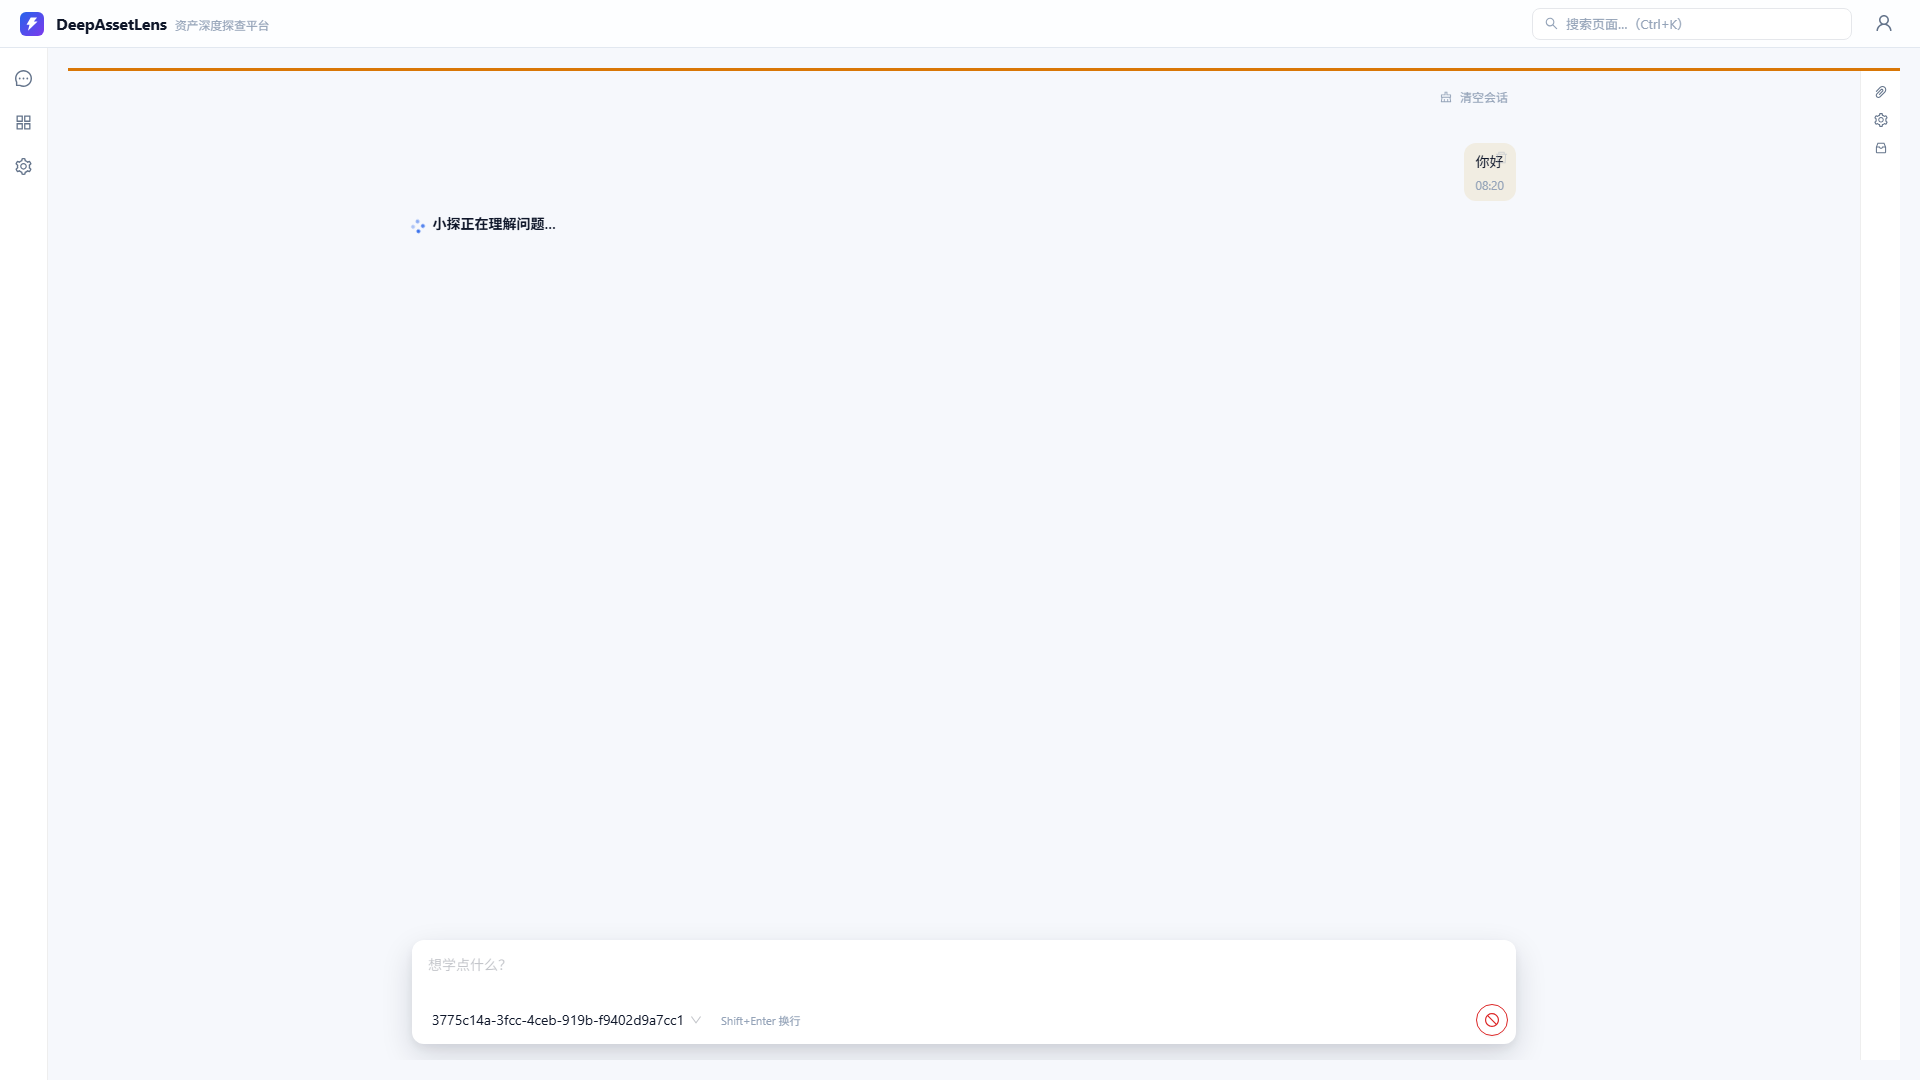
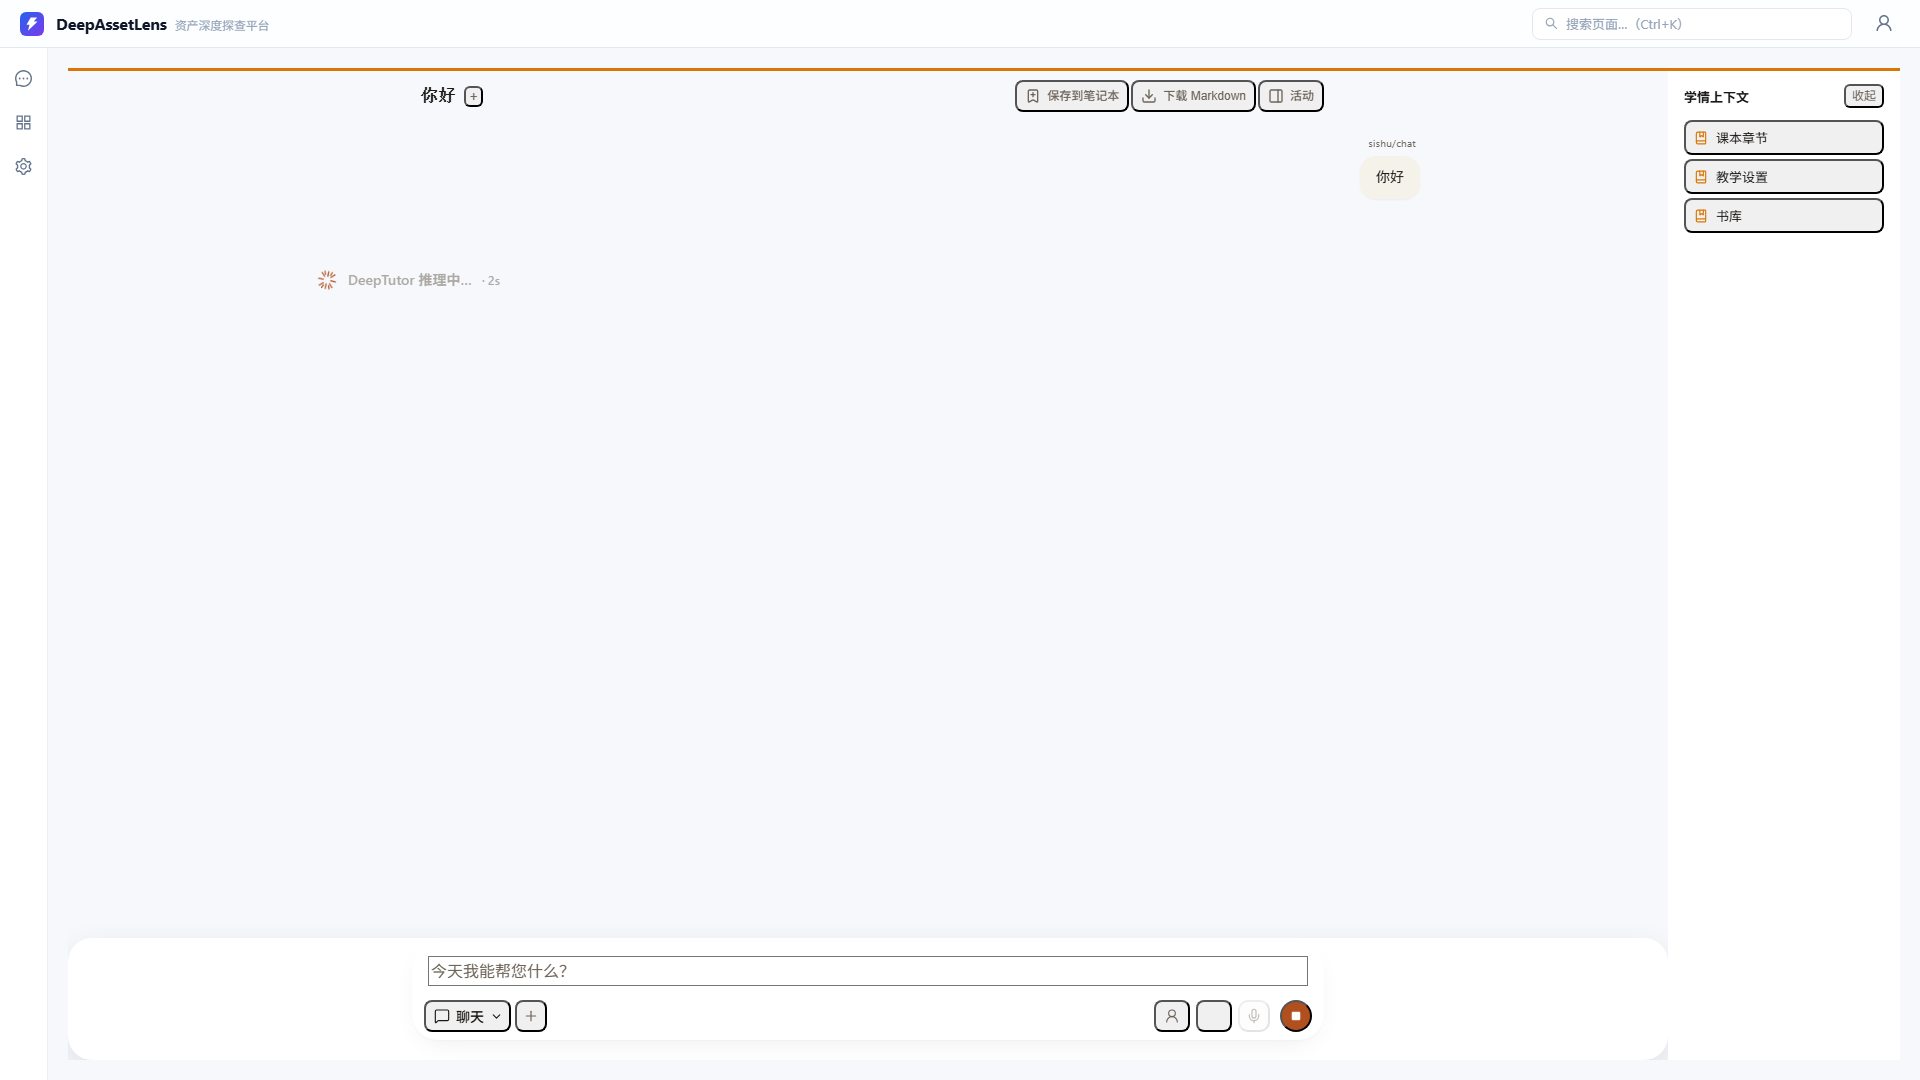
UX3修复：①私塾功能全还原——/e/sishu/chat 回挂 TutorHomeChat（8能力选择器/引用族/学情上下文/桥SSE/保存导出），风格收敛改在组件内做（问数渐变大题+副标语+today-panel 胶囊+两列建议卡，去衬线欢迎题）②新建会话永远回首页——ChatPanel 新建按钮与 TutorHomeChat +按钮均 navigate('/')，TutorHomeChat 补 ?new=1 契约（桥 reset 清会话，防 KeepAlive 复活旧对话）③探针改桥端点断言（skills/capability + skill_code）。对拍 15/15 + P0 8/

diff --git a/frontend/src/pages/tutor/chat/TutorHomeChat.tsx b/frontend/src/pages/tutor/chat/TutorHomeChat.tsx
@@ -6,10 +6,10 @@
 "use client";
 
 import { lazy, Suspense, useCallback, useEffect, useMemo, useRef, useState, type ReactNode } from "react";
-import { useNavigate } from "react-router-dom";
+import { useLocation, useNavigate } from "react-router-dom";
 import {
   BarChart3, BookMarked, BrainCircuit, Clapperboard, ClipboardCheck, Code2, Compass, Database,
-  FileSearch, Globe, GraduationCap, Image as ImageIcon, Lightbulb, MessageSquare,
+  FileSearch, Flame, Globe, GraduationCap, Image as ImageIcon, Lightbulb, MessageSquare,
   Microscope, PenLine, Sparkles, BookmarkPlus, Download, PanelRight,
   type LucideIcon,
 } from "lucide-react";
@@ -90,6 +90,10 @@ import type { SelectedHistorySession } from "../../../components/chat/HistorySes
 import type { SelectedQuestionEntry } from "../../../components/chat/QuestionBankPicker";
 import { listSkills } from "../../../lib/skills-api";
 import { useStore } from "../../../store/useStore";
+// UX3修复：欢迎区风格收敛数据源（色素/像素对齐问数）——设计 token + sishu 卡
+import { tokens, spaceColors } from "../../../theme/tokens";
+import { expertsApi } from "../../../services/api";
+import type { ExpertCard } from "../../../services/api";
 import { AgentChatProvider, useAgentChat, type AgentMessageItem } from "./AgentChatContext";
 
 // next/dynamic → React.lazy（CRA 无 SSR；批2.3 垫片同款）
@@ -407,6 +411,39 @@ function TutorHomeChatInner() {
     }
     setWelcomeGreeting(bucket[Math.floor(Math.random() * bucket.length)]);
   }, []);
+
+  /* ---- UX3修复（用户裁定）：?new=1 新建契约——门户卡进入/KeepAlive 复活均强制全新会话：
+     桥 reset 清 sessionId/messages（中止在途流）→ 落欢迎页，随后剥参保持 URL 干净。
+     修复曾现的「点私塾卡仍显示上轮对话」——组件被 KeepAlive 保活时不会自行重置。 ---- */
+  const location = useLocation();
+  useEffect(() => {
+    const sp = new URLSearchParams(location.search);
+    if (sp.get("new") !== "1") return;
+    reset();
+    sp.delete("new");
+    navigate({ pathname: location.pathname, search: sp.toString() ? `?${sp.toString()}` : "" }, { replace: true });
+    // eslint-disable-next-line react-hooks/exhaustive-deps
+  }, [location.search]);
+
+  /* ---- UX3修复：欢迎区风格收敛数据源（只供视觉，失败静默降级，不碰桥功能面）——
+     sishu 卡（suggestions/tagline）+ today-panel 胶囊动态数（同 ExpertChat 批16deep 17.1 平台面）。 ---- */
+  const [sishuCard, setSishuCard] = useState<ExpertCard | null>(null);
+  const [tutorProfile, setTutorProfile] = useState<{ due_count: number; streak_days: number } | null>(null);
+  useEffect(() => {
+    let alive = true;
+    expertsApi.get("sishu").then((res) => {
+      if (alive) setSishuCard(res.data as ExpertCard);
+    }).catch(() => undefined);
+    fetch("/api/v1/learning/today-panel").then((r) => r.json()).then((j) => {
+      if (alive && j && (j.due_count !== undefined || j.streak_days !== undefined)) {
+        setTutorProfile({ due_count: j.due_count ?? 0, streak_days: j.streak_days ?? 0 });
+      }
+    }).catch(() => undefined);
+    return () => { alive = false; };
+  }, []);
+  const sishuSuggestions = (sishuCard?.suggestions && sishuCard.suggestions.length > 0
+    ? sishuCard.suggestions
+    : sishuCard?.ui_config?.suggestions) ?? ["帮我出三道二次函数练习题", "拍一张错题照片录入错题本", "生成本周的复习计划"];
 
   const firstUserTitle = useMemo(
     () => state.messages.find((msg) => msg.role === "user")?.content.trim().replace(/\s+/g, " ").slice(0, 80) || "",
@@ -866,7 +903,8 @@ function TutorHomeChatInner() {
 
   const cancelStreamingTurn = useCallback(() => stop(), [stop]);
   const handleMessagesClick = useCallback(() => { /* DT：点击消息区收浮层（菜单关闭由组件内部处理） */ }, []);
-  const navigateToHome = useCallback(() => navigate("/e/sishu", { replace: true }), [navigate]);
+  // UX3修复（用户裁定）：新建会话永远回首页门户——由用户在首页三卡按需选空间
+  const navigateToHome = useCallback(() => navigate("/", { replace: true }), [navigate]);
 
   /* ---- 新会话 ---- */
   const newSession = useCallback(() => { reset(); navigateToHome(); }, [reset, navigateToHome]);
@@ -913,9 +951,58 @@ function TutorHomeChatInner() {
           {/* 消息区（DT L1982-2075 1:1） */}
           <div className="flex w-full flex-1 min-h-0 flex-col">
             {!hasMessages ? (
-              <div className="animate-fade-in flex w-full flex-1 flex-col items-center justify-center px-6 pb-8 gap-8" style={{ minHeight: "fit-content" }}>
-                <div className="flex w-full max-w-[960px] items-center justify-center gap-4">
-                  <h1 className="font-serif text-[40px] font-medium leading-[1.1] tracking-[-0.015em] text-[var(--foreground)]">{t(welcomeGreeting)}</h1>
+              <div className="animate-fade-in flex w-full flex-1 flex-col items-center justify-center px-6 pb-8" style={{ minHeight: "fit-content" }}>
+                {/* UX3修复：欢迎区对齐问数视觉语言（色素/像素）——渐变大标题+副标语+today-panel 动态数。
+                    问候语文案是功能保留（DT L660-696 时段桶），仅呈现样式从衬线收敛为问数渐变题 */}
+                <div style={{ textAlign: "center", marginBottom: 20 }}>
+                  <div
+                    style={{
+                      fontSize: tokens.fontSize.display,
+                      fontWeight: 700,
+                      letterSpacing: "-0.02em",
+                      background: tokens.brandGradient,
+                      WebkitBackgroundClip: "text",
+                      backgroundClip: "text",
+                      WebkitTextFillColor: "transparent",
+                      color: "transparent",
+                      lineHeight: 1.3,
+                    }}
+                  >
+                    {t(welcomeGreeting)}
+                  </div>
+                  <div style={{ marginTop: 8, fontSize: 14, color: "var(--text-tertiary, #999)" }}>
+                    {sishuCard?.ui_config?.welcome?.tagline ?? "出题 · 判分 · 错题本 · 学情规划"}
+                  </div>
+                  {tutorProfile && (tutorProfile.due_count > 0 || tutorProfile.streak_days > 0) && (
+                    <div style={{ marginTop: 6, fontSize: 13, color: tokens.colors.info }}>
+                      今日有 {tutorProfile.due_count} 题待复习，已连续学习 {tutorProfile.streak_days} 天
+                    </div>
+                  )}
+                </div>
+                {/* 统计胶囊（同问数 S1 卡规格——图标+tabular-nums 数字+12px 说明） */}
+                <div style={{ display: "flex", gap: 12, flexWrap: "wrap", justifyContent: "center" }}>
+                  {[
+                    { label: "待复习", value: tutorProfile ? `${tutorProfile.due_count} 题` : "—", icon: <BookMarked className="h-4 w-4" />, color: spaceColors.sishu },
+                    { label: "连续学习", value: tutorProfile ? `${tutorProfile.streak_days} 天` : "—", icon: <Flame className="h-4 w-4" />, color: tokens.colors.ai },
+                  ].map((c) => (
+                    <div
+                      key={c.label}
+                      data-testid={`sishu-capsule-${c.label}`}
+                      style={{
+                        display: "flex", alignItems: "center", gap: 10,
+                        padding: "10px 18px", borderRadius: tokens.radius.card,
+                        background: "var(--bg-content, #fff)",
+                        border: `1px solid ${tokens.colors.border}`,
+                        boxShadow: tokens.elevation.s1,
+                      }}
+                    >
+                      <span style={{ color: c.color, fontSize: 16, display: "inline-flex" }}>{c.icon}</span>
+                      <div>
+                        <div style={{ fontSize: 18, fontWeight: 700, color: "var(--text-primary, #222)", lineHeight: 1.2, fontVariantNumeric: "tabular-nums" }}>{c.value}</div>
+                        <div style={{ fontSize: 12, color: "var(--text-tertiary, #999)" }}>{c.label}</div>
+                      </div>
+                    </div>
+                  ))}
                 </div>
                 {/* UX2批⑧：7 功能入口已下沉管理台（v4§5.2 私塾管理组）——首屏宫格移除（用户反馈⑧） */}
               </div>
@@ -1069,6 +1156,33 @@ function TutorHomeChatInner() {
               prefillInputRef={prefillInputRef}
             />
             </div>
+            {/* UX3修复：建议卡（问数同款两列卡规格）——仅欢迎视图渲染；点击经 prefill 预填不直发，
+                送信链路仍是桥 send（功能不换）。宽度对齐 ChatComposer 欢迎态 max-w-[768px]。 */}
+            {!hasMessages && (
+              <div style={{ display: "grid", gridTemplateColumns: "repeat(2, minmax(0, 1fr))", gap: 10, width: "100%", maxWidth: 768, margin: "0 auto", padding: "0 24px 16px" }}>
+                {sishuSuggestions.map((item, i) => (
+                  <div
+                    key={`suggest-${i}`}
+                    role="button"
+                    tabIndex={0}
+                    data-testid={`sishu-suggest-${i}`}
+                    onClick={() => prefillInputRef.current?.(item)}
+                    onKeyDown={(e) => { if (e.key === "Enter" || e.key === " ") { e.preventDefault(); prefillInputRef.current?.(item); } }}
+                    style={{
+                      display: "flex", alignItems: "center", gap: 10,
+                      padding: "12px 14px", borderRadius: tokens.radius.card,
+                      background: "var(--bg-content, #fff)",
+                      border: `1px solid ${tokens.colors.border}`,
+                      boxShadow: tokens.elevation.s1,
+                      cursor: "pointer",
+                    }}
+                  >
+                    <Sparkles className="h-4 w-4 shrink-0" style={{ color: spaceColors.sishu }} />
+                    <span style={{ fontSize: 13, color: "var(--text-primary, #222)", lineHeight: 1.6 }}>{item}</span>
+                  </div>
+                ))}
+              </div>
+            )}
             <div
               aria-hidden="true"
               className="shrink-0"

diff --git a/frontend/src/config/expertPages.ts b/frontend/src/config/expertPages.ts
@@ -71,11 +71,11 @@ const PartnersNew = lazy(() => import(/* webpackChunkName: "dt-partners-new" */ 
 const PartnerDetail = lazy(() => import(/* webpackChunkName: "dt-partners-detail" */ '../pages/tutor/partners/PartnerDetail'));
 const SelfLearning = lazy(() => import(/* webpackChunkName: "dt-self-learning" */ '../pages/tutor/learning/SelfLearning'));
 
-// 引擎批2 2.5/2.6 → UX3修：DT 桌面对话窗口原挂 TutorHomeChat（home 页复刻壳+桥 SSE 态源）。
-// UX3修：私塾对话收敛问数风格——/e/sishu/chat 改挂 ExpertChat（slug-aware：琥珀色条+
-// today-panel 统计胶囊+sishu 宫格），与 /e/wenshu/chat 同组件同骨架；静态路径仍压过
-// routes.tsx 的 /e/:slug/chat 参数路由（v6 静态优先）。TutorHomeChat 全库无引用，移除挂载。
-const ExpertChat = lazy(() => import(/* webpackChunkName: "expert-chat" */ '../pages/expert/ExpertChat'));
+// 引擎批2 2.5/2.6：DT 桌面对话窗口——TutorHomeChat（home 页复刻壳+桥 SSE 态源）。
+// UX3修复（用户裁定）：功能面全保留=TutorHomeChat（8 能力选择器/错题录入/引用族/学情上下文）；
+// 风格收敛（色素/像素/文本框对齐问数）在 TutorHomeChat 组件内落地——不换挂 ExpertChat
+// （b17cdc3 曾换挂致功能丢失，已回退）。静态路径仍压过 routes.tsx 参数路由（v6 静态优先）。
+const TutorHomeChat = lazy(() => import(/* webpackChunkName: "tutor-home-chat" */ '../pages/tutor/chat/TutorHomeChat'));
 
 const TUTOR_H5_PAGES: ExpertPageConfig[] = [
   // IA 件批1：16 条路由从 /e/sishu/{h5,notebook} 迁出 → /e/tutor-h5/*（menuKey 同步换前缀）；
@@ -148,7 +148,7 @@ export const EXPERT_PAGES: Record<string, ExpertPageConfig[]> = {
     // IA批6 6.3：桌面自主学习（use——与 h5 版 /e/tutor-h5/learn 并存，DT 本就两页各自 1:1）
     { path: '/e/sishu/self-learning', element: withUseGuard(SelfLearning), label: '自主学习', menuKey: 'e:sishu:self-learning' },
     // 引擎批2 2.6：DT 桌面对话窗口（navigation.tsx e:sishu:chat 既有占位→真路由）
-    { path: '/e/sishu/chat', element: withUseGuard(ExpertChat, 'sishu'), label: '对话', menuKey: 'e:sishu:chat' }, // UX3修：风格收敛=问数同组件
+    { path: '/e/sishu/chat', element: withUseGuard(TutorHomeChat, 'sishu'), label: '对话', menuKey: 'e:sishu:chat' }, // UX3修复：功能还原，风格在组件内收敛
     // 引擎批5 5.5：书籍工作台（DT book/page.tsx 1:1 壳件）
     { path: '/e/sishu/book', element: withUseGuard(BookWorkbench, 'sishu'), label: '书籍', menuKey: 'e:sishu:book' },
   ],

diff --git a/frontend/src/components/shell/ChatPanel.tsx b/frontend/src/components/shell/ChatPanel.tsx
@@ -307,11 +307,11 @@ export function ChatPanel({ onClose }: { onClose: () => void }) {
         block
         icon={<PlusOutlined />}
         data-testid="chat-panel-new"
-        // UX3批1（P0-C）：新建留守当前空间（?new=1 契约=UX2批③），不再跳门户/关面板
+        // UX3修复（用户裁定）：新建会话永远回首页门户——由用户在首页三卡按需选空间；
+        // ?new=1 契约在 ExpertChat（清活跃位）与 TutorHomeChat（桥 reset）各自落地。
         onClick={() => {
           setActiveSessionId('');
-          const slug = location.pathname.startsWith('/e/') ? (location.pathname.split('/')[2] || 'wenshu') : 'wenshu';
-          navigate(slug === 'tutor-h5' ? '/e/tutor-h5/chat' : `/e/${slug}/chat?new=1`);
+          navigate('/');
         }}
       >
         新建对话

diff --git a/backend/scripts/_pw_ux3_fix.py b/backend/scripts/_pw_ux3_fix.py
@@ -6,13 +6,15 @@ B1a 首页门户卡在场（刷新后种子历史会话在 localStorage）
 B1b 点问数卡 → /e/wenshu/chat（?new=1 已清）
 B1c 历史消息未渲染（不再进历史对话）
 B1d 问数色条=蓝 + 欢迎页主视觉在场
-B3a 私塾色条=琥珀 #D97706（ExpertChat slug-aware）
-B3b 私塾功能宫格在场（sishu-space-grid）
-B3c today-panel 统计胶囊（待复习）
-B3d 旧 TutorHomeChat 欢迎语「下午好」退场
-S1  sishu 发送走 freeplan stream
-S2  请求带 expert_id=sishu
-S3  回复落定（loading 退场）
+B3a 私塾色条=琥珀 #D97706（TutorHomeChat 页头色条）
+B3b 功能还原·学情上下文右栏（sishu-trust-panel）
+B3c 统计胶囊·待复习（today-panel）
+B3e 统计胶囊·连续学习
+B3f 建议卡（问数同款两列卡）
+B3g 衬线旧欢迎题退场（风格收敛）
+S1  sishu 发送走桥 POST /api/v2/skills/capability
+S2  请求带 skill_code=sishu/*
+S3  回复落定（停止生成退场）
 零 pageerror
 """
 import json
@@ -73,7 +75,7 @@ with sync_playwright() as p:
         check("B1d 欢迎页主视觉在场", welcome.count() >= 1, f"hits={welcome.count()}")
         pg.screenshot(path=str(SCR / "_ux3fix_wenshu.png"))
 
-    # ---------- BUG3: 私塾风格收敛 ----------
+    # ---------- BUG3: 私塾功能还原 + 风格收敛（TutorHomeChat 组件内做风格） ----------
     pg.goto(BASE + "/e/sishu/chat?new=1", timeout=60000, wait_until="domcontentloaded")
     pg.wait_for_timeout(7000)
     bar2 = pg.locator("[data-testid='space-color-bar']")
@@ -82,18 +84,19 @@ with sync_playwright() as p:
         check("B3a 私塾色条=琥珀#D97706", "217, 119, 6" in bg2, bg2)
     else:
         check("B3a 私塾色条=琥珀#D97706", False, "bar not found")
-    grid = pg.locator("[data-testid='sishu-space-grid']")
-    check("B3b 私塾功能宫格在场", grid.count() >= 1)
-    due = pg.locator("text=待复习")
-    check("B3c today-panel 统计胶囊", due.count() >= 1, f"hits={due.count()}")
-    old_title = pg.locator("text=下午好")
-    check("B3d 旧 TutorHomeChat 欢迎语退场", old_title.count() == 0, f"hits={old_title.count()}")
+    trust = pg.locator("[data-testid='sishu-trust-panel']")
+    check("B3b 功能还原·学情上下文右栏", trust.count() >= 1)
+    check("B3c 统计胶囊·待复习", pg.locator("text=待复习").count() >= 1)
+    check("B3e 统计胶囊·连续学习", pg.locator("[data-testid='sishu-capsule-连续学习']").count() >= 1)
+    check("B3f 建议卡（问数同款）", pg.locator("[data-testid='sishu-suggest-0']").count() >= 1)
+    serif = pg.locator("h1.font-serif")
+    check("B3g 衬线旧欢迎题退场", serif.count() == 0, f"hits={serif.count()}")
 
-    # ---------- sishu 发送链路（freeplan stream + expert_id=sishu）----------
+    # ---------- sishu 发送链路（桥 POST /api/v2/skills/capability，skill_code=sishu/*）----------
     req_info = {}
 
     def on_req(req):
-        if "chat/freeplan/stream" in req.url:
+        if "skills/capability" in req.url:
             req_info["url"] = req.url
             try:
                 req_info["body"] = req.post_data or ""
@@ -113,15 +116,15 @@ with sync_playwright() as p:
                 ok_req = True
                 break
         ok_resp = False
-        for _ in range(120):
+        for _ in range(150):
             pg.wait_for_timeout(1000)
-            if pg.evaluate("() => !document.body.innerText.includes('正在思考...')"):
+            if pg.evaluate("() => !document.body.innerText.includes('停止生成')"):
                 ok_resp = True
                 break
-        check("S1 sishu 发送走 freeplan stream", ok_req, str(req_info.get("url", ""))[:80])
+        check("S1 sishu 发送走桥 capability 流", ok_req, str(req_info.get("url", ""))[:80])
         body = req_info.get("body", "")
-        check("S2 请求带 expert_id=sishu", "sishu" in body, body[:140].replace("\n", " "))
-        check("S3 回复落定（loading 退场）", ok_resp)
+        check("S2 请求带 skill_code=sishu/*", '"skill_code"' in body and "sishu" in body, body[:140].replace("\n", " "))
+        check("S3 回复落定（停止生成退场）", ok_resp)
         pg.screenshot(path=str(SCR / "_ux3fix_sishu.png"))
     else:
         check("S1 sishu 发送链路", False, "textarea not found")

diff --git a/backend/scripts/_pw_ux3_p0.py b/backend/scripts/_pw_ux3_p0.py
@@ -81,13 +81,11 @@ with sync_playwright() as p:
     pg.wait_for_timeout(400)
     pg.locator("[data-testid='chat-panel-new']").click()
     pg.wait_for_timeout(1500)
-    # UX3修：?new=1 契约自 UX2批(6f1aaff) 起为「消费即剥」——意图效果 replace-navigate 清参；
-    # 留守语义由后两条承载（仍在本空间色条+面板未关）。断言从"参数留存"改"参数已消费"。
-    check("P0-C URL=?new=1 已消费（留守私塾）", "/e/sishu/chat" in pg.url and "new=1" not in pg.url, pg.url[:80])
-    check("P0-C space-color-bar 仍可见", pg.locator("[data-testid='space-color-bar']").count() >= 1)
-    check("P0-C 面板未关闭", pg.locator("[data-testid='chat-panel']").is_visible())
-    # UX3修：新建后落欢迎页（活跃位已清——与 BUG1 同契约）；sishu 宫格仅在欢迎视图渲染
-    check("P0-C 新建落欢迎页", pg.locator("[data-testid='sishu-space-grid']").count() >= 1)
+    # UX3修复（用户裁定）：新建会话永远回首页门户——ChatPanel 新建按钮 navigate('/')。
+    # ?new=1 消费即剥契约（UX2批6f1aaff）不变，但落点改首页由用户选空间。
+    pg.wait_for_timeout(1500)
+    check("P0-C URL=新建落首页门户", pg.url.rstrip("/?") == BASE.rstrip("/") or pg.url.rstrip("/").endswith(":23000"), pg.url[:80])
+    check("P0-C 首页门户卡在场", pg.locator("[data-testid='portal-card-wenshu']").count() >= 1)
     pg.screenshot(path=str(SCR / "_ux3p0_c.png"))
 
     check("零 pageerror", len(pageerrors) == 0, str(pageerrors[:2]))
